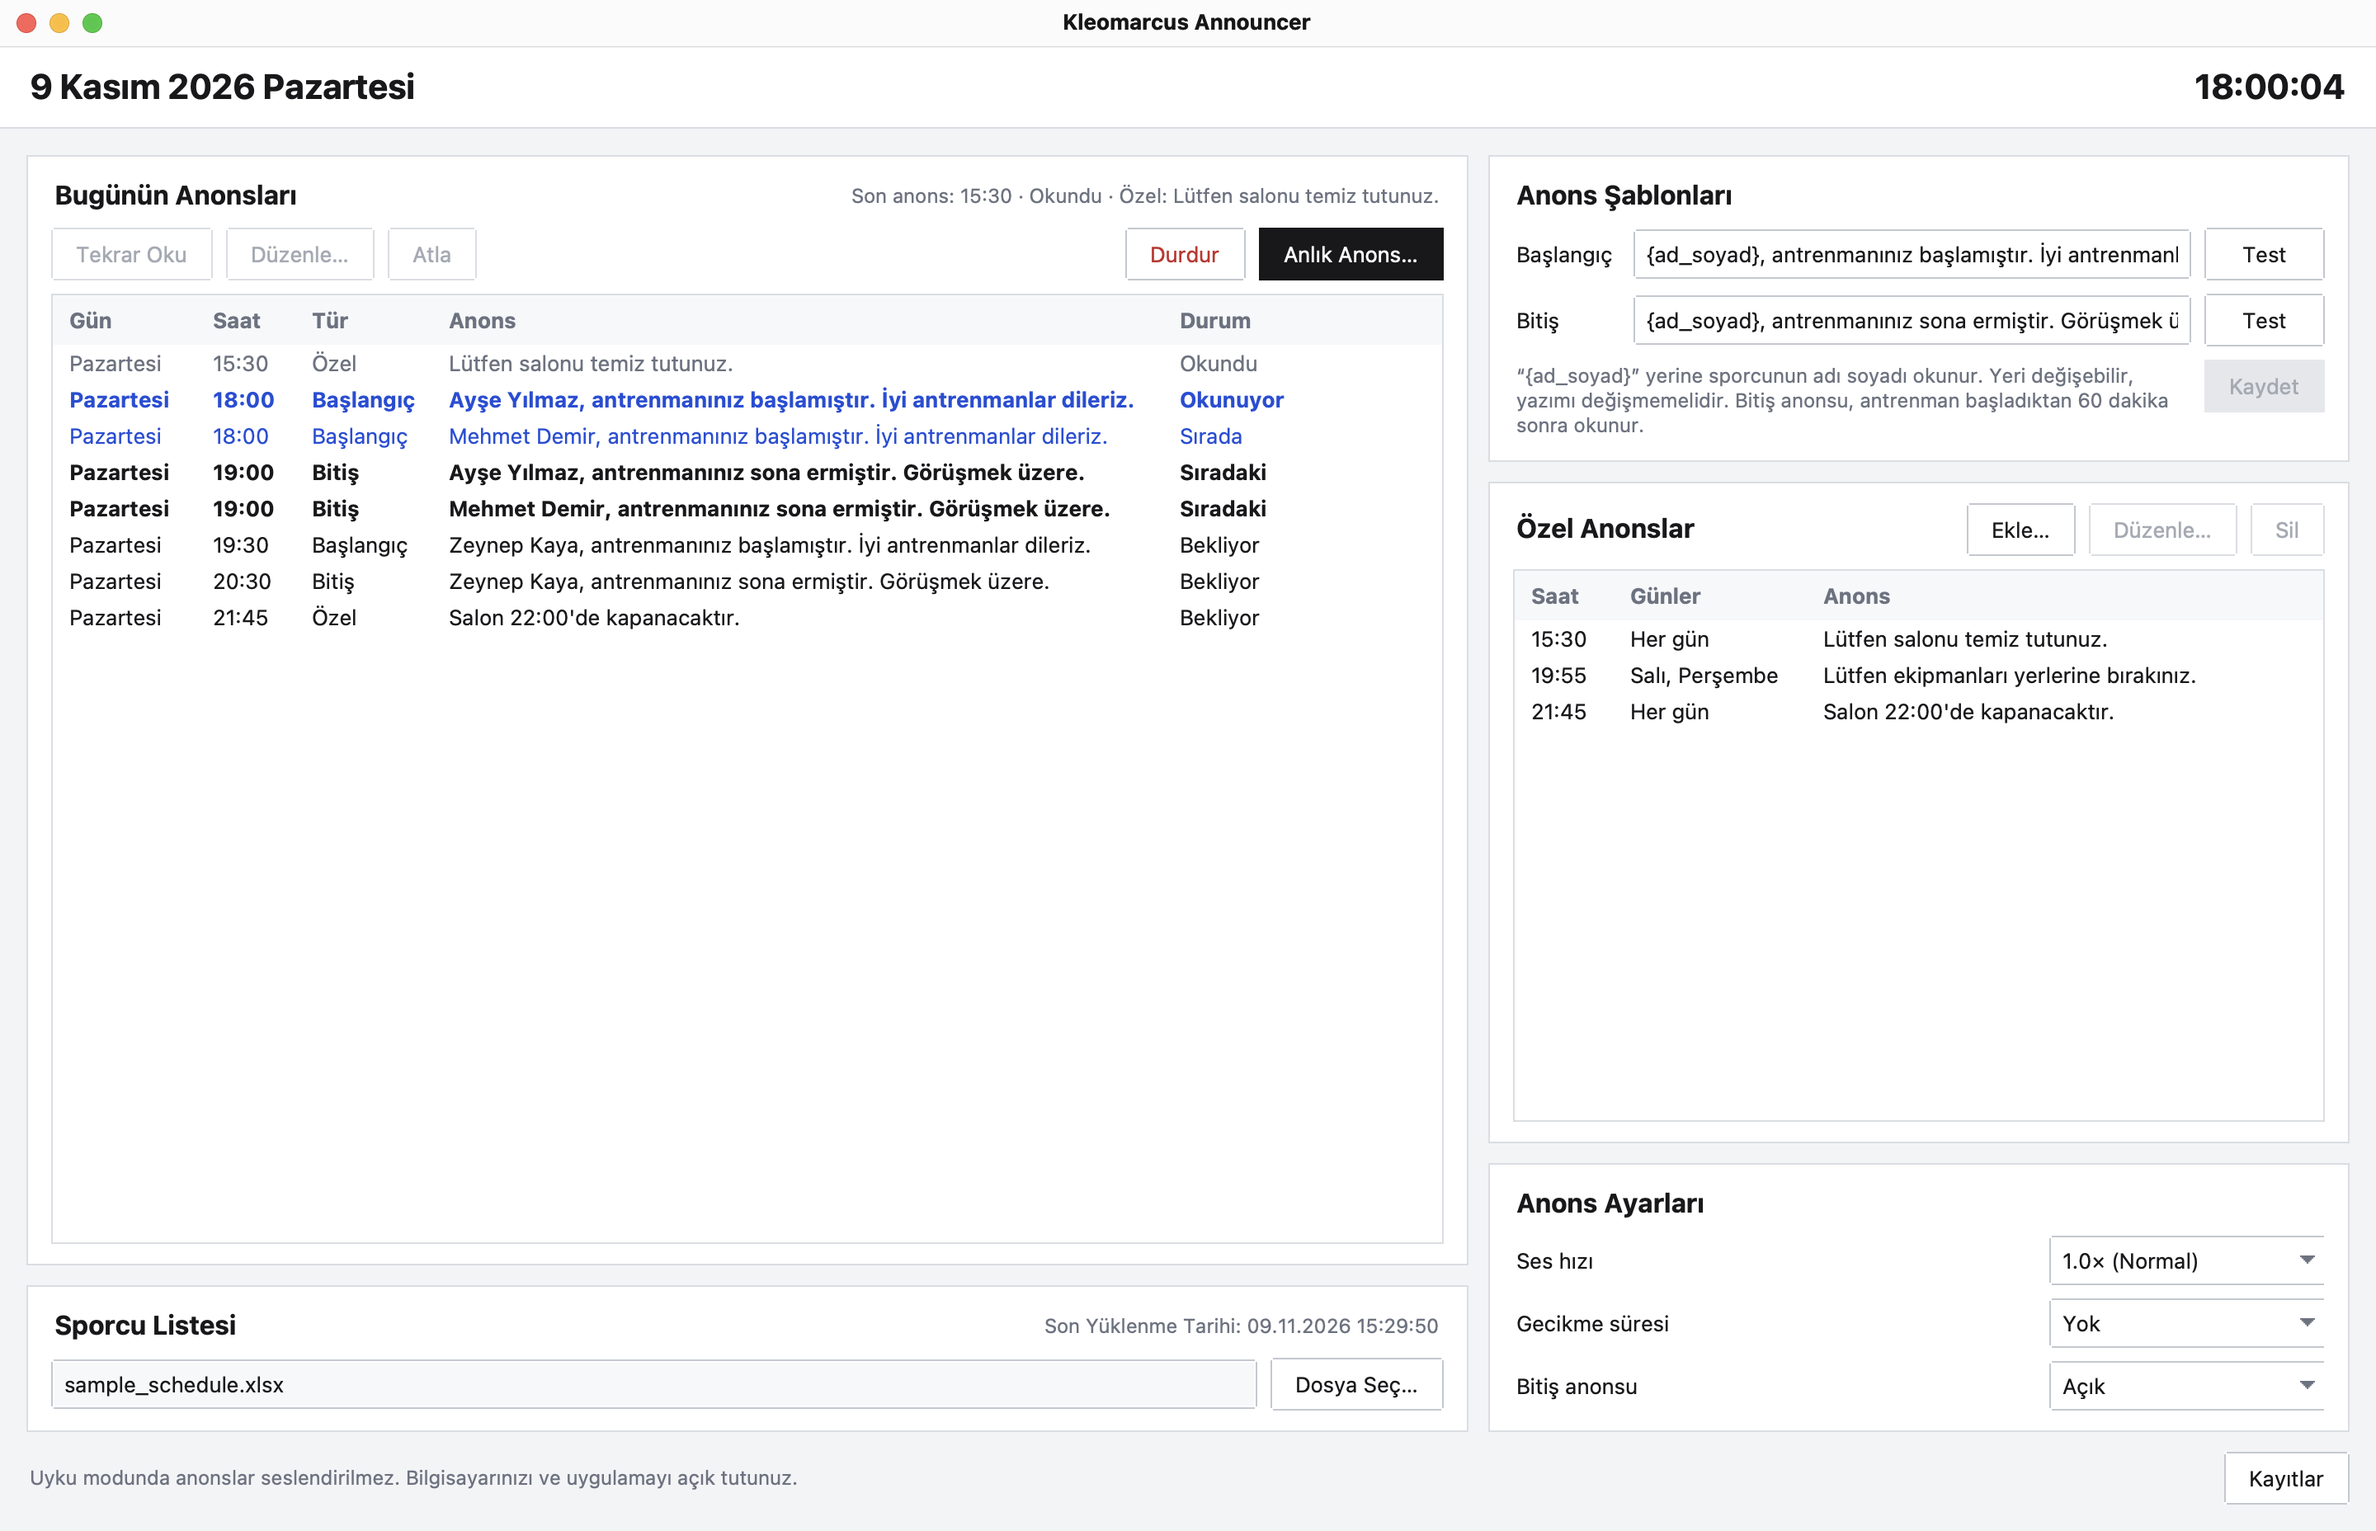
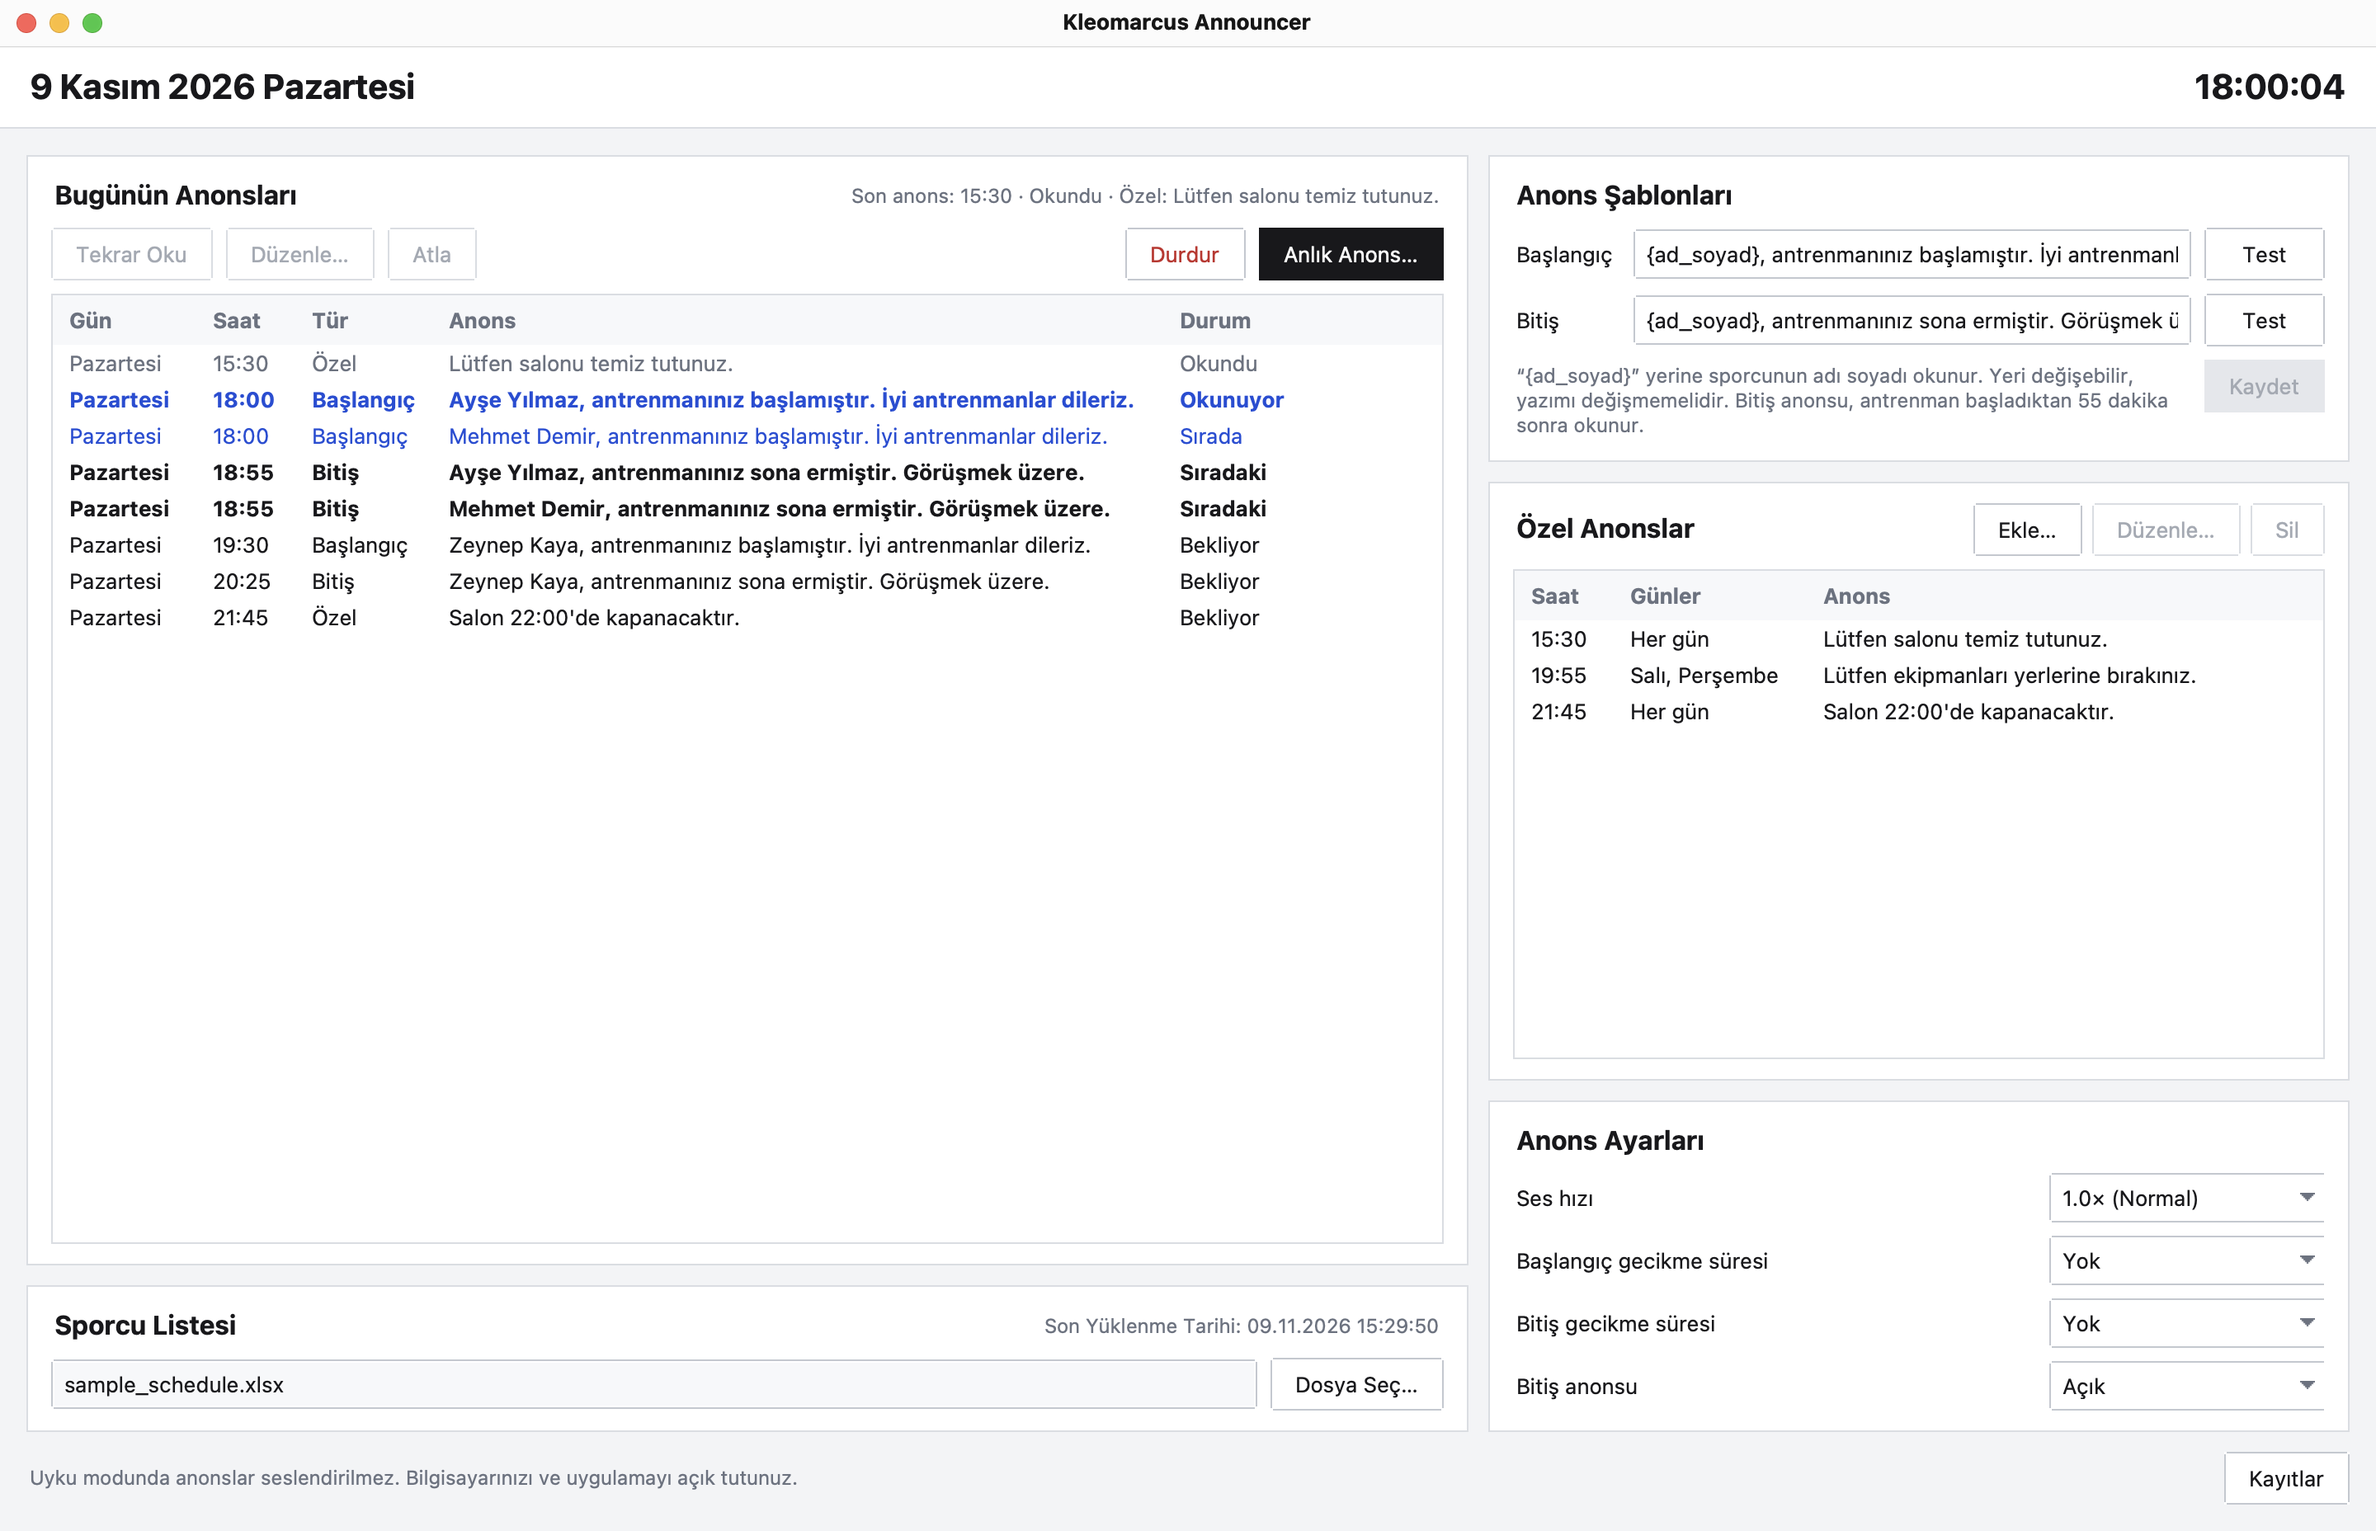
docs: describe the 55 minute session and the two delays

Changed region(s): [[0.625, 0.7188, 0.9688, 0.8438], [0.625, 0.7812, 0.75, 0.875], [0.875, 0.3438, 0.9375, 0.375]]

diff --git a/README.md b/README.md
@@ -17,8 +17,8 @@
 A desktop app that makes the lobby announcements of
 [Kleomarcus Spor Akademi](https://www.kleomarcus.com). It reads the weekly
 training schedule from an Excel file and, when a session starts and again when
-it ends an hour later, plays a chime and calls each athlete by name through the
-computer's speakers.
+it ends 55 minutes later, plays a chime and calls each athlete by name through
+the computer's speakers.
 
 <p align="center">
   <img src="docs/screenshot.png" width="860" alt="The main window, showing today's announcements">
@@ -29,8 +29,8 @@ computer's speakers.
 - **Schedule from Excel.** One row per session. A saved file is read again
   automatically.
 - **Start and end of a session.** Each athlete is welcomed when the session
-  starts and seen off an hour later, each with a template of its own. The end
-  can be switched off.
+  starts and seen off 55 minutes later, each with a template of its own. The
+  end can be switched off.
 - **Custom announcements.** Free text at a fixed time, every day or on chosen
   weekdays, such as a closing reminder.
 - **Today at a glance.** One row per announcement, with the sentence that is
@@ -38,8 +38,8 @@ computer's speakers.
   for today only; one whose time has come can be read again.
 - **Read now, stop.** A sentence typed in is read at once, and whatever is
   being read can be cut off.
-- **Speed and delay.** Slower or faster speech, and every announcement up to
-  ten minutes after its time, for athletes who arrive late.
+- **Speed and delays.** Slower or faster speech, and the starts and the ends
+  each up to ten minutes after their time, for athletes who arrive late.
 - **Turkish speech, kept on the computer.** Each sentence is generated once
   and played from disk, so only new sentences need a connection.
 - **No late announcements.** One missed during a restart or a sleep is shown
@@ -103,20 +103,23 @@ fictional names.
 - **Templates.** `{ad_soyad}` stands for the athlete's name and may be moved
   anywhere in the sentence. New templates, and a new speed, are used once all
   of their speech has been generated.
-- **End of a session.** A session lasts an hour. When one ends in the minute
-  that another starts, both are announced after a single chime, the end
-  first.
-- **Delay.** **Gecikme süresi** moves every announcement by 1 to 10 minutes,
-  the ends too. Today's table shows the time at which each one is made.
+- **End of a session.** A session lasts 55 minutes. When one ends in the
+  minute that another starts, both are announced after a single chime, the
+  end first.
+- **Delays.** **Başlangıç gecikme süresi** moves the starts by 1 to 10
+  minutes and **Bitiş gecikme süresi** the ends; each is set on its own.
+  Custom announcements are read at their own time. Today's table shows the
+  time at which each announcement is made.
 - **Changes for today.** **Atla** and **Düzenle…** act on the selected row
   until two seconds before its time, and are kept if the app is restarted
   that day. Skipping a start skips the end of that session too; moving a
   start leaves its end where it is. A new sentence is saved once its speech
   has been generated. The schedule file and the custom announcements are not
   changed.
-- **Conflicts.** A custom announcement may not share its minute with the
-  start of a session or with another custom announcement; the window says
-  which one is left out.
+- **Conflicts.** A custom announcement may not be set for the minute of the
+  start of a session or of another custom announcement; the window says
+  which one is left out. A start or an end that a delay moves into its
+  minute is read with it, after a single chime.
 - **Timing.** An announcement is made within the first 30 seconds of its
   minute, by an app that was running when the minute began. The app does not
   keep the computer awake.
